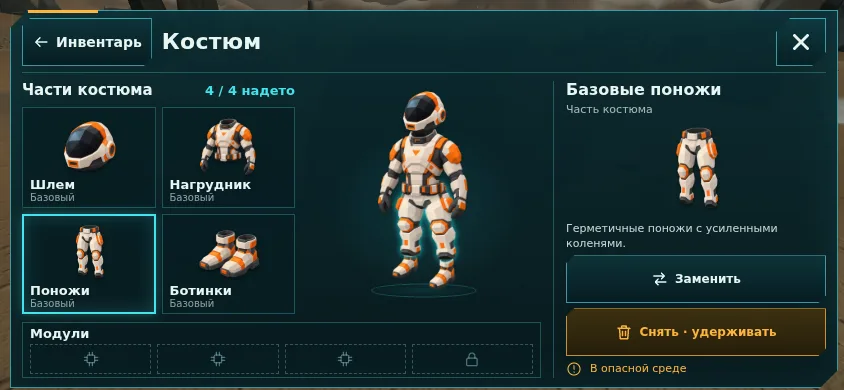
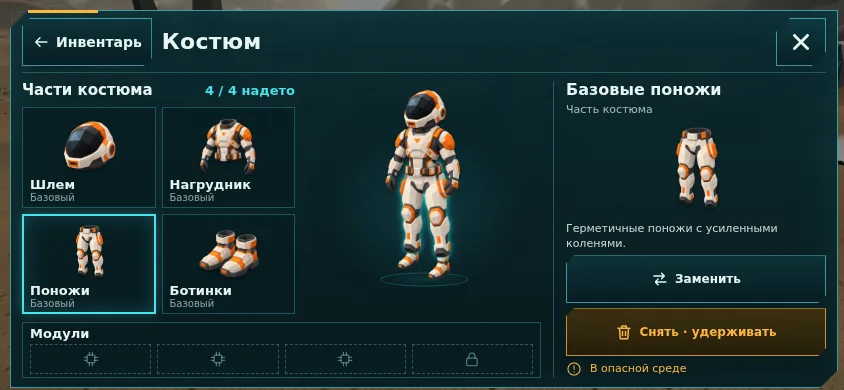
Preserve pants sprite aspect ratio in suit figure and realign equipment

diff --git a/src/style.css b/src/style.css
@@ -307,24 +307,23 @@ input[type=range]::-moz-range-track{height:3px;background:var(--line)}input[type
 .suit-figure svg,.suit-figure img{height:100%;max-height:100%;width:auto;max-width:100%}
 .raster-figure{position:relative;width:100%;height:100%;max-width:300px;isolation:isolate;pointer-events:none;container-type:size}
 /* Fixed proportions align the ankles in both the thumbnail and suit screen. */
-.figure-canvas{position:absolute;left:50%;top:50%;width:min(100cqw,66.6667cqh);height:min(150cqw,100cqh);transform:translate(-50%,-50%)}
+.figure-canvas{position:absolute;left:50%;top:50%;width:min(100cqw,55.5556cqh);height:min(180cqw,100cqh);transform:translate(-50%,-50%)}
 .raster-figure .fig-part{position:absolute;display:block;stroke:none;fill:none}
 .raster-figure .fig-part img{display:block;width:100%;height:100%;object-fit:contain;filter:drop-shadow(0 2px 2px rgba(0,0,0,.3))}
 .raster-figure .fig-part.off{opacity:.13;filter:grayscale(1)}
 .raster-figure .fig-part.sel:not(.off) img{filter:drop-shadow(0 0 3px rgba(26,241,248,.8))}
-.raster-figure .fig-helmet{left:30%;top:1.5%;width:40%;height:23%;z-index:4}
-.raster-figure .fig-chest{left:0;top:16%;width:100%;height:45%;z-index:3}
-/* Keep the previous rendered leg height; match the hip width to the chest belt. */
-.raster-figure .fig-legs{left:5%;top:40.5%;width:90%;height:40%;z-index:2}
-.raster-figure .fig-legs img{object-fit:fill}
+.raster-figure .fig-helmet{left:30%;top:1.25%;width:40%;height:22.2222%;z-index:4}
+.raster-figure .fig-chest{left:16.25%;top:13.3333%;width:67.5%;height:37.5%;z-index:3}
+/* Square sprite boxes preserve the same artwork proportions as equipment slots. */
+.raster-figure .fig-legs{left:5%;top:30.3333%;width:90%;height:50%;z-index:2}
 .raster-figure .fig-boots{inset:0;z-index:1}
 .raster-figure .fig-boots img,.raster-figure .fig-boots.sel:not(.off) img{filter:none}
 /* Glow follows the separated silhouettes, rather than their clipping edges. */
 .raster-figure .fig-boots.sel:not(.off){filter:drop-shadow(0 0 3px rgba(26,241,248,.8))}
-.fig-boot{position:absolute;width:36%;height:24%}
-.fig-boot-left{left:28.5%;top:66.5%;clip-path:inset(0 50% 0 0)}
-.fig-boot-right{left:34.8%;top:68.5%;clip-path:inset(0 0 0 51%)}
-.figure-platform{position:absolute;left:16%;right:16%;bottom:7%;height:6%;border:1px solid rgba(58,229,240,.25);border-radius:50%;background:radial-gradient(ellipse,rgba(36,195,207,.13),transparent 70%);z-index:0}
+.fig-boot{position:absolute;width:36%;height:20%}
+.fig-boot-left{left:28.5%;top:65.6333%;clip-path:inset(0 50% 0 0)}
+.fig-boot-right{left:34.8%;top:67.9333%;clip-path:inset(0 0 0 51%)}
+.figure-platform{position:absolute;left:16%;right:16%;bottom:12%;height:6%;border:1px solid rgba(58,229,240,.25);border-radius:50%;background:radial-gradient(ellipse,rgba(36,195,207,.13),transparent 70%);z-index:0}
 .fig-part path,.fig-part circle{fill:#e9e8e3;stroke:#3d4648;stroke-width:1.4}.fig-part .fig-accent{fill:#e8742a;stroke:#e8742a}.fig-part .fig-dark{fill:none;stroke:#2b3234;stroke-width:4}.fig-part .fig-visor{fill:#12181a;stroke:#e8742a}
 .fig-part.off path,.fig-part.off circle{fill:none;stroke:rgba(160,220,225,.45);stroke-dasharray:4 3}.fig-part.off .fig-accent,.fig-part.off .fig-visor{fill:none}
 .fig-part.sel path:first-child,.fig-part.sel circle{stroke:var(--aqua);stroke-width:2.2}

diff --git a/docs/art/ui/UI_SPRITES.md b/docs/art/ui/UI_SPRITES.md
@@ -12,12 +12,12 @@
 
 `ITEM_ART` в `src/ui/art.ts` статически импортирует локальные файлы; Vite формирует хешированные URL. Общие изображения используются в быстром доступе, рюкзаке, снаряжении, описании, переносе и списке замены. Внешнего CDN нет. Стабильные ID, сохранения, баланс и стартовый комплект не менялись.
 
-Фигура собирается из четырёх независимых растровых частей через `FIGURE_ART.parts`. Внутренний холст 2:3 сохраняет одинаковые пропорции в маленькой карточке и большом окне. Поножи имеют отдельный масштаб по ширине и высоте: таз согласован с поясом нагрудника, обе щиколотки совмещены с ботинками. После замечания Малика 4.10 поножи перерисованы в спокойной стойке: колени и голени ближе друг к другу, ширина таза и длина ног сохранены. Каждый ботинок передвинут под новую щиколотку; масштаб частей не уменьшался. Два ботинка из одного спрайта разделены CSS-масками и позиционируются независимо, но относятся к одному слоту экипировки. Выбранная часть подсвечивается; снятая становится слабым серым ориентиром. Контуры пустых слотов и функциональные пиктограммы остаются векторными.
+Фигура собирается из четырёх независимых растровых частей через `FIGURE_ART.parts`. Внутренний холст 5:9 сохраняет одинаковые пропорции в маленькой карточке и большом окне. Все четыре части находятся в квадратных контейнерах с `object-fit: contain`: соотношение сторон исходных спрайтов сохраняется. Поножи на фигуре и в слоте используют один и тот же файл; прежнее `object-fit: fill` ошибочно расширяло их на фигуре и удалено. Пояс согласован с нагрудником, обе щиколотки совмещены с ботинками. После замечания Малика 4.10 поножи перерисованы в спокойной стойке: колени и голени ближе друг к другу, ширина таза и длина ног сохранены. Каждый ботинок передвинут под новую щиколотку; стойка изменена в самом спрайте, без неравномерного масштабирования. Два ботинка из одного спрайта разделены CSS-масками и позиционируются независимо, но относятся к одному слоту экипировки. Выбранная часть подсвечивается; снятая становится слабым серым ориентиром. Контуры пустых слотов и функциональные пиктограммы остаются векторными.
 
 Это иллюстрации интерфейса. Процедурная 3D-модель инструмента в руке, геометрия мира и будущие модули костюма не изменялись.
 
 ## Проверка
 
-`npm run verify:art` создаёт отдельное тестовое сохранение, проверяет загрузку/прозрачность 11 предметов, шесть слотов быстрого доступа, отсутствие выхода иконок за контейнеры, ячейки ≥48 px, прокрутку короткого экрана, выбор/снятие/надевание шлема, поножей и ботинок. Снимает HUD, инвентарь и костюм на 844×390 / 1366×768 / 667×320 и сохраняет отчёт в `artifacts/`. Используется Chromium с программным WebGL и DPR 1; это проверка корректности, а не FPS телефона.
+`npm run verify:art` создаёт отдельное тестовое сохранение, проверяет загрузку/прозрачность 11 предметов, шесть слотов быстрого доступа, отсутствие выхода иконок за контейнеры, ячейки ≥48 px, прокрутку короткого экрана, выбор/снятие/надевание шлема, поножей и ботинок. Также проверяет совпадение URL поножей на фигуре и в слоте и отсутствие искажения соотношения сторон. Снимает HUD, инвентарь и костюм на 844×390 / 1366×768 / 667×320 и сохраняет отчёт в `artifacts/`. Используется Chromium с программным WebGL и DPR 1; это проверка корректности, а не FPS телефона.
 
 По прямому поручению Малика автономный HTML больше не обновляется и не проверяется. Сборка: `npx --no-install tsc --noEmit` и `npx --no-install vite build`; опубликованное превью — Vercel из ветки `stage1-foundation` / PR #2. [Игровые снимки](screenshots/) используют наполненное тестовое сохранение, а не новый стартовый комплект. Физический телефон не проверен.

diff --git a/NEXT_SESSION.md b/NEXT_SESSION.md
@@ -1,6 +1,6 @@
 # Vireon — инструкция для новой сессии с нейросетью
 
-**4.10.2026, актуальный стиль ассетов:** Малик утвердил вариант 1 «Мягкий low-poly». Все 11 предметов и отдельная пара ботинок фигуры заменены прозрачными WebP с крупными матовыми гранями. После замечания Малика о слишком широкой стойке поножи перерисованы с более близкими голенями при прежней ширине таза и длине ног; ботинки совмещены с ними. Масштаб частей фигуры не уменьшать для исправления стойки. Реестр, ID и сохранения прежние; модели мира и инструмента в руке не менялись. Prompts и контрольные суммы: `docs/art/ui/SPRITE_MANIFEST.json`. Автономный HTML не обновлять; использовать Vercel из PR #2.
+**4.10.2026, актуальный стиль ассетов:** Малик утвердил вариант 1 «Мягкий low-poly». Все 11 предметов и отдельная пара ботинок фигуры заменены прозрачными WebP с крупными матовыми гранями. После замечания Малика о слишком широкой стойке поножи перерисованы с более близкими голенями при прежней ширине таза и длине ног; ботинки совмещены с ними. Для фигуры и слотов сохранять исходные пропорции спрайтов: `object-fit: contain`, без растяжения по отдельной оси. После замечания о разных поножах удалено ошибочное `object-fit: fill`; холст фигуры 5:9, положение пояса и обуви согласовано заново. Реестр, ID и сохранения прежние; модели мира и инструмента в руке не менялись. Prompts и контрольные суммы: `docs/art/ui/SPRITE_MANIFEST.json`. Автономный HTML не обновлять; использовать Vercel из PR #2.
 
 > Этот файл — точка входа для любого ассистента, который продолжает работу над Vireon в новой, «чистой» сессии. Прочитай его целиком **до** первых действий. Он не заменяет GDD, а говорит, что читать, как работать и что делать дальше.
 >

diff --git a/docs/SESSION_CONTEXT.md b/docs/SESSION_CONTEXT.md
@@ -1,6 +1,6 @@
 # Vireon — актуальная память
 
-**4.10.2026, актуальный стиль ассетов:** Малик утвердил вариант 1 «Мягкий low-poly». Все 11 предметов и отдельная пара ботинок фигуры заменены прозрачными WebP с крупными матовыми гранями. После замечания Малика о слишком широкой стойке поножи перерисованы с более близкими голенями при прежней ширине таза и длине ног; ботинки совмещены с ними. Масштаб частей фигуры не уменьшать для исправления стойки. Реестр, ID и сохранения прежние; модели мира и инструмента в руке не менялись. Prompts и контрольные суммы: `docs/art/ui/SPRITE_MANIFEST.json`. Автономный HTML не обновлять; использовать Vercel из PR #2.
+**4.10.2026, актуальный стиль ассетов:** Малик утвердил вариант 1 «Мягкий low-poly». Все 11 предметов и отдельная пара ботинок фигуры заменены прозрачными WebP с крупными матовыми гранями. После замечания Малика о слишком широкой стойке поножи перерисованы с более близкими голенями при прежней ширине таза и длине ног; ботинки совмещены с ними. Для фигуры и слотов сохранять исходные пропорции спрайтов: `object-fit: contain`, без растяжения по отдельной оси. После замечания о разных поножах удалено ошибочное `object-fit: fill`; холст фигуры 5:9, положение пояса и обуви согласовано заново. Реестр, ID и сохранения прежние; модели мира и инструмента в руке не менялись. Prompts и контрольные суммы: `docs/art/ui/SPRITE_MANIFEST.json`. Автономный HTML не обновлять; использовать Vercel из PR #2.
 
 **29.09.2026, Europe/Moscow. GDD 1.0.0, баланс B0.** Репозиторий https://github.com/Malikk-Sh/Verion-game. Рабочее название Vireon; имя репозитория Verion-game не исправлять автоматически.
 

diff --git a/AGENTS.md b/AGENTS.md
@@ -1,6 +1,6 @@
 # Работа с Vireon
 
-**4.10.2026, актуальный стиль ассетов:** Малик утвердил вариант 1 «Мягкий low-poly». Все 11 предметов и отдельная пара ботинок фигуры заменены прозрачными WebP с крупными матовыми гранями. После замечания Малика о слишком широкой стойке поножи перерисованы с более близкими голенями при прежней ширине таза и длине ног; ботинки совмещены с ними. Масштаб частей фигуры не уменьшать для исправления стойки. Реестр, ID и сохранения прежние; модели мира и инструмента в руке не менялись. Prompts и контрольные суммы: `docs/art/ui/SPRITE_MANIFEST.json`. Автономный HTML не обновлять; использовать Vercel из PR #2.
+**4.10.2026, актуальный стиль ассетов:** Малик утвердил вариант 1 «Мягкий low-poly». Все 11 предметов и отдельная пара ботинок фигуры заменены прозрачными WebP с крупными матовыми гранями. После замечания Малика о слишком широкой стойке поножи перерисованы с более близкими голенями при прежней ширине таза и длине ног; ботинки совмещены с ними. Для фигуры и слотов сохранять исходные пропорции спрайтов: `object-fit: contain`, без растяжения по отдельной оси. После замечания о разных поножах удалено ошибочное `object-fit: fill`; холст фигуры 5:9, положение пояса и обуви согласовано заново. Реестр, ID и сохранения прежние; модели мира и инструмента в руке не менялись. Prompts и контрольные суммы: `docs/art/ui/SPRITE_MANIFEST.json`. Автономный HTML не обновлять; использовать Vercel из PR #2.
 
 Общение с Маликом на русском. Репозиторий содержит проектную память, полный GDD и визуальный образец Верданы B4; полной survival-игры пока нет.
 
